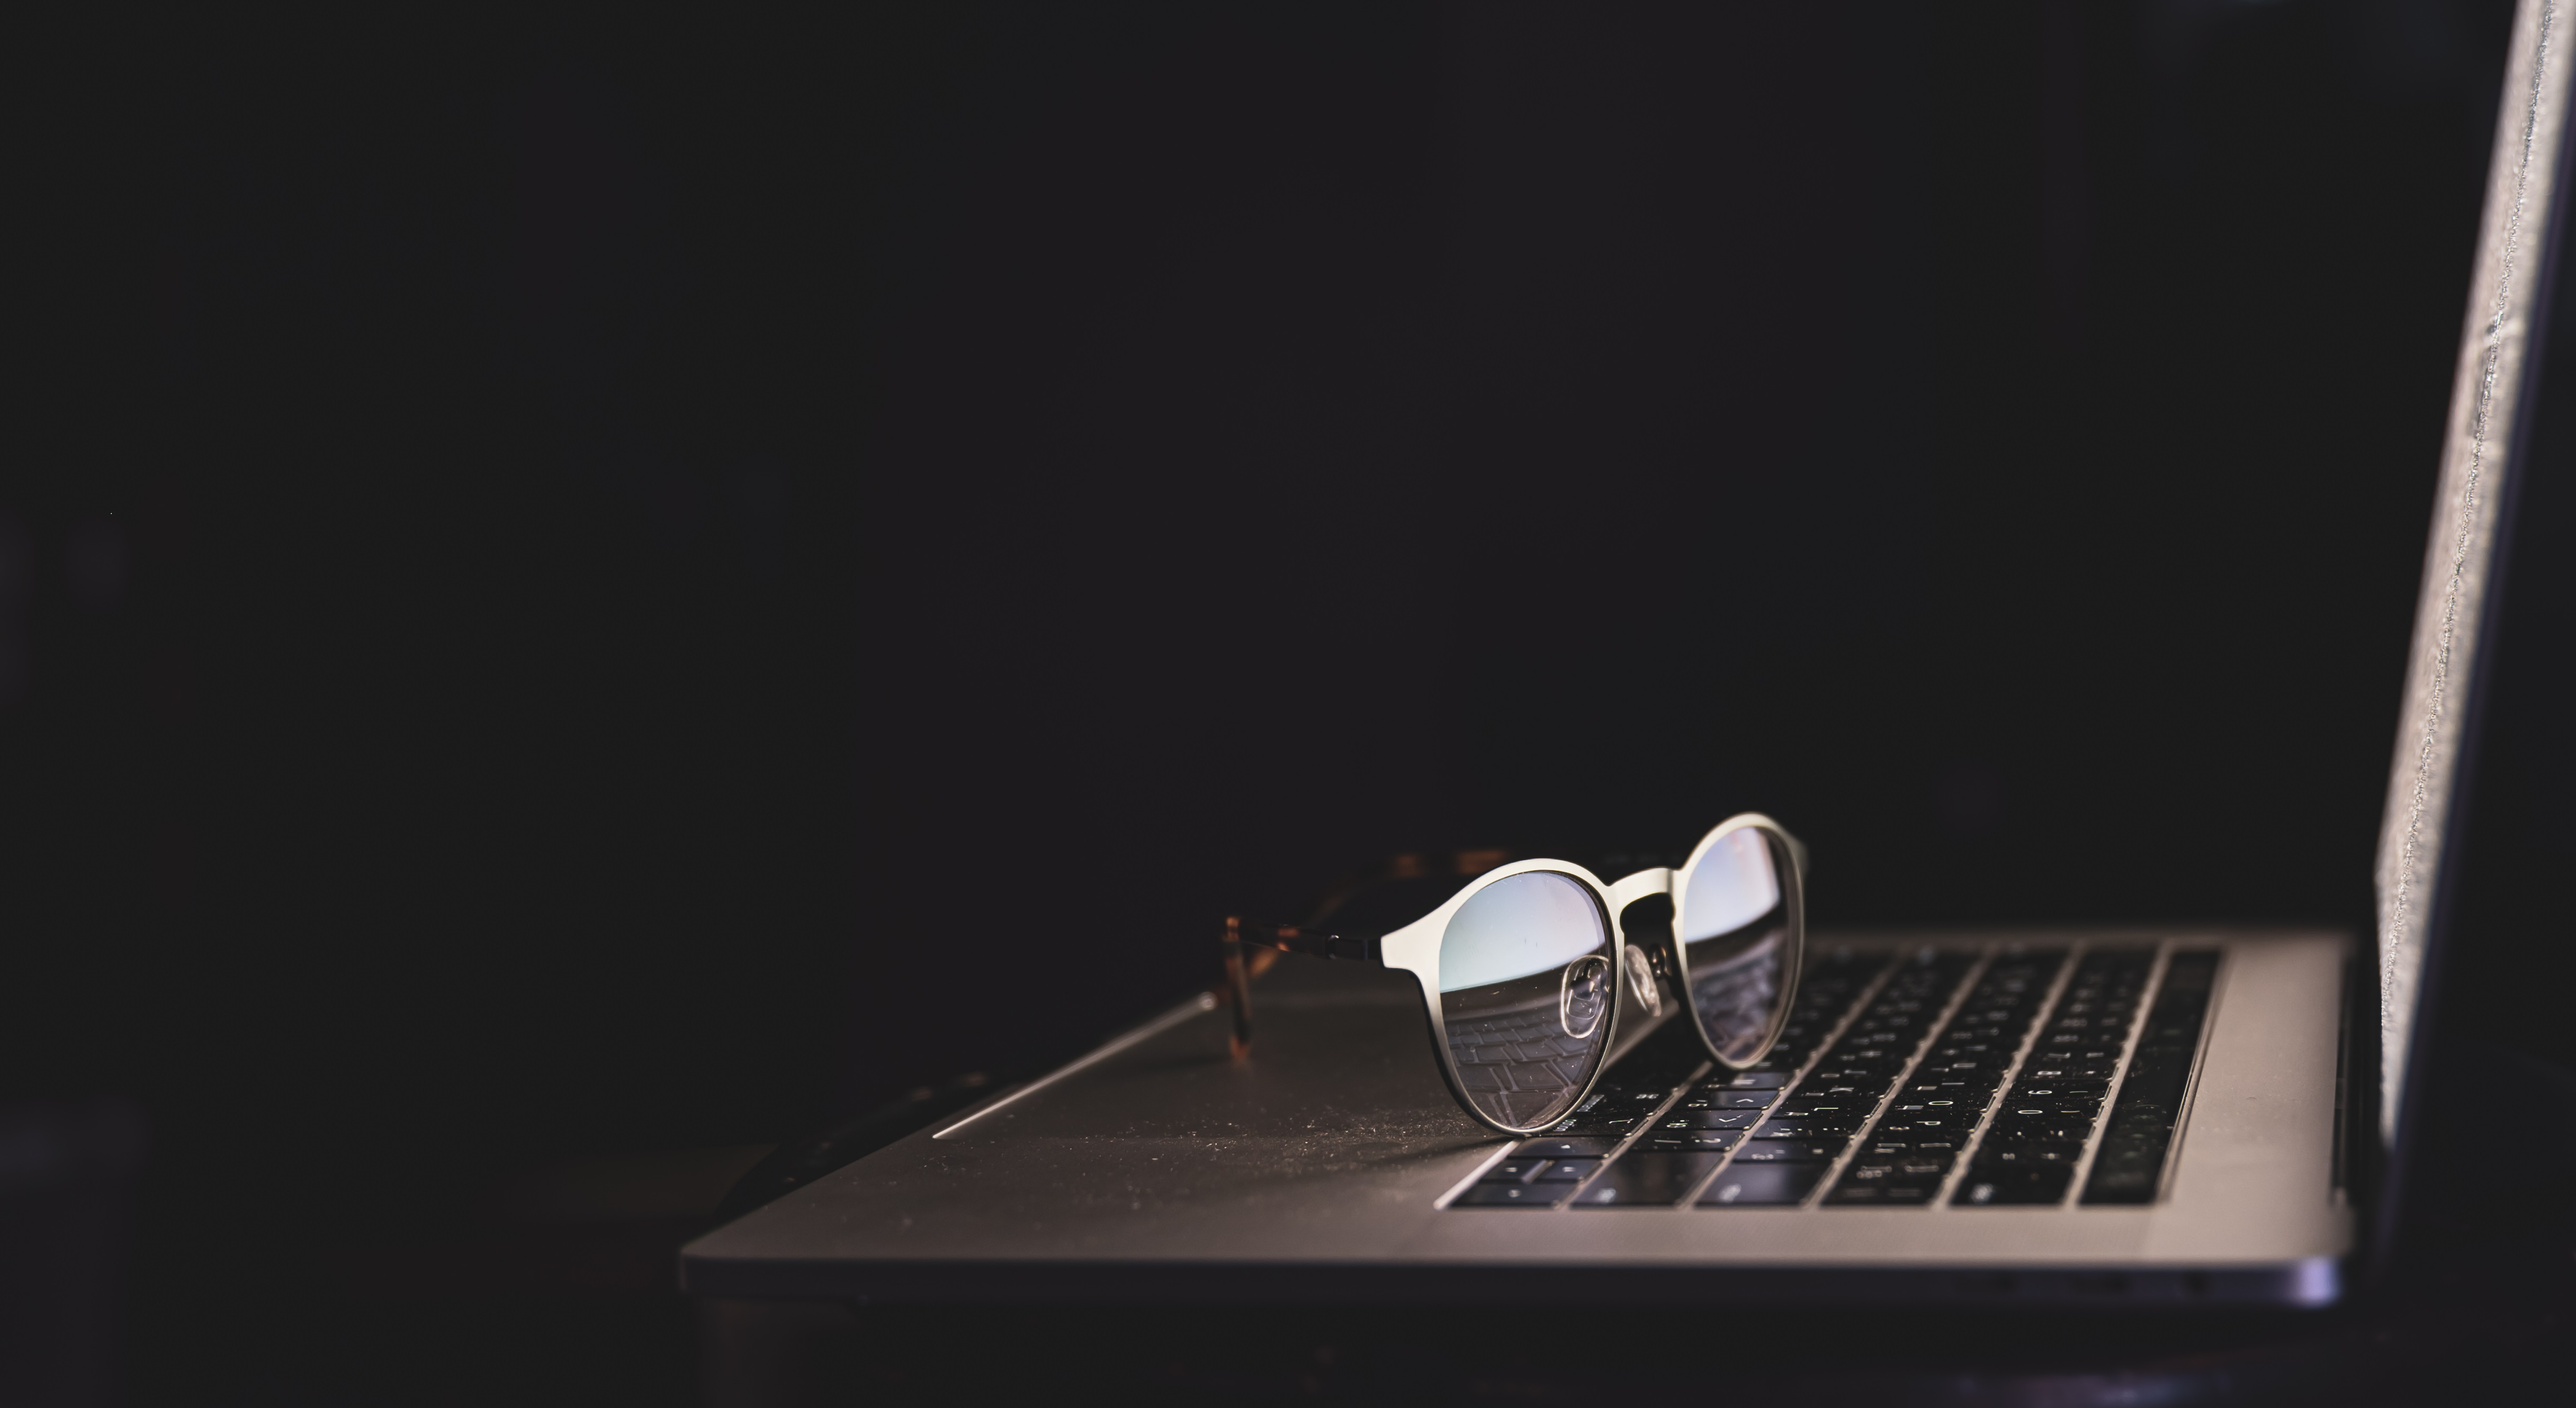
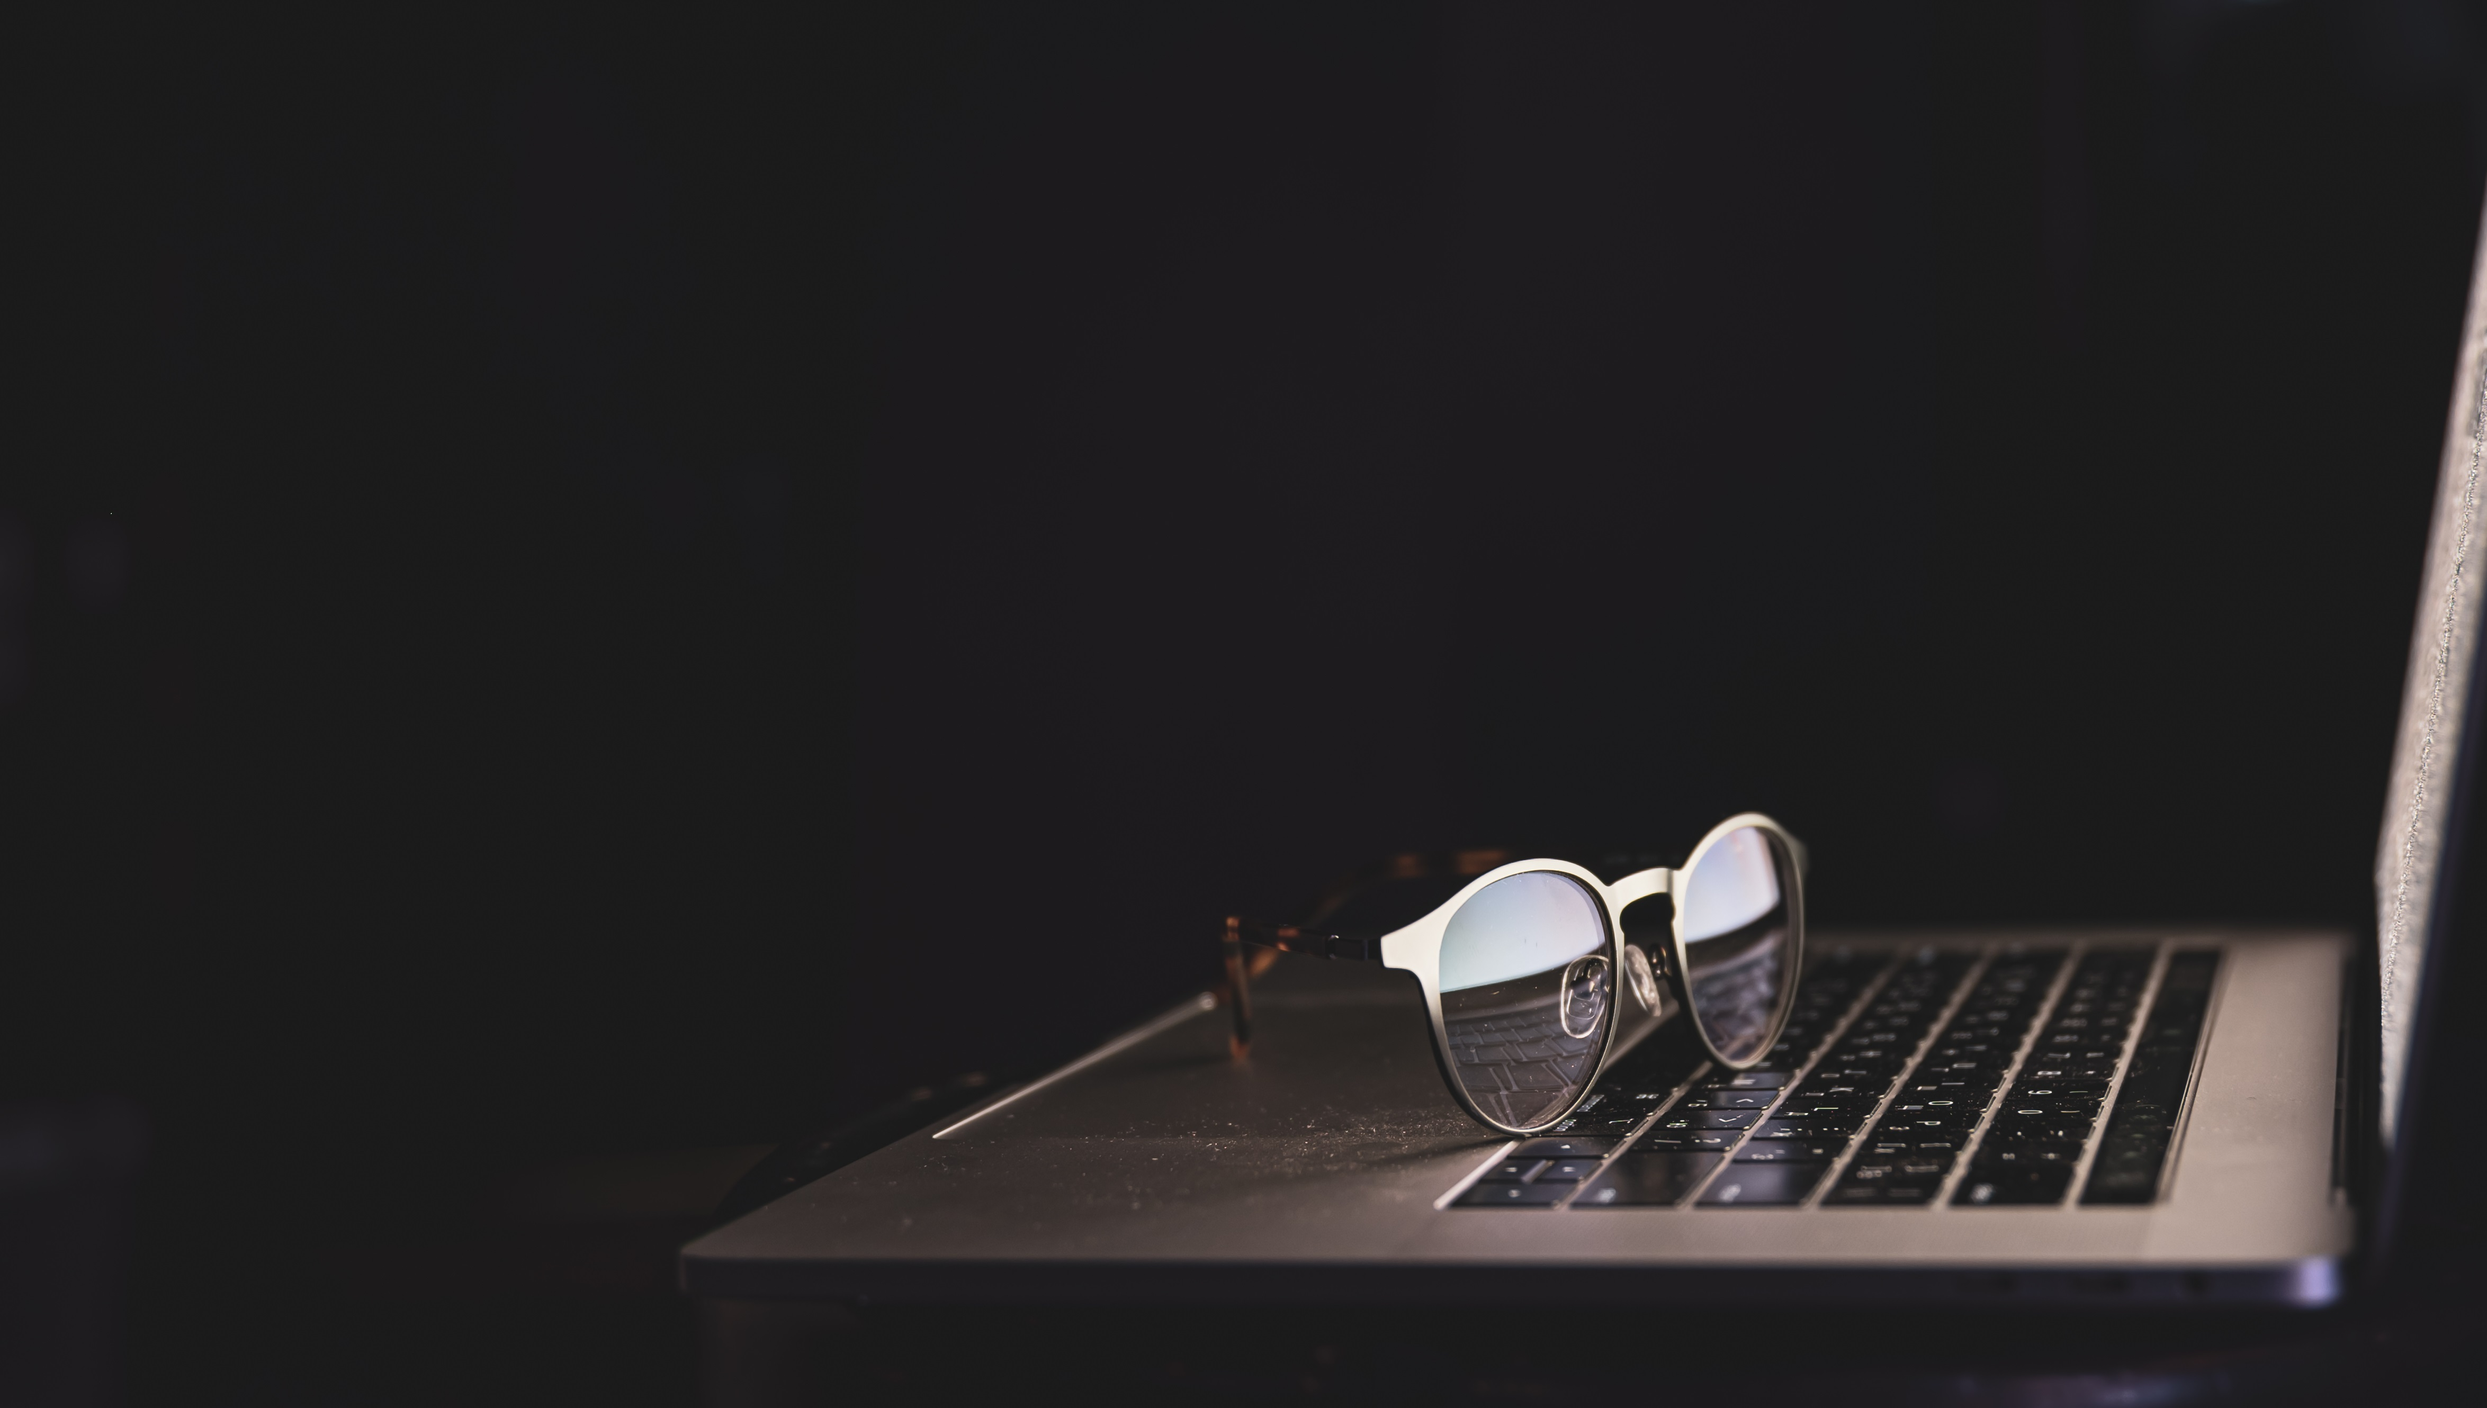
just few

diff --git a/index.html b/index.html
@@ -116,35 +116,11 @@
 
       <div class="row">
 
-        <div class="col-lg-3 col-md-6">
-          <div class="count-box">
-            <i class="bi bi-emoji-smile"></i>
-            <span data-purecounter-start="0" data-purecounter-end="232" data-purecounter-duration="1" class="purecounter"></span>
-            <p>Happy Clients</p>
-          </div>
-        </div>
-
         <div class="col-lg-3 col-md-6 mt-5 mt-md-0">
           <div class="count-box">
             <i class="bi bi-journal-richtext"></i>
-            <span data-purecounter-start="0" data-purecounter-end="521" data-purecounter-duration="1" class="purecounter"></span>
+            <span data-purecounter-start="0" data-purecounter-end="10" data-purecounter-duration="1" class="purecounter"></span>
             <p>Projects</p>
-          </div>
-        </div>
-
-        <div class="col-lg-3 col-md-6 mt-5 mt-lg-0">
-          <div class="count-box">
-            <i class="bi bi-headset"></i>
-            <span data-purecounter-start="0" data-purecounter-end="1463" data-purecounter-duration="1" class="purecounter"></span>
-            <p>Hours Of Support</p>
-          </div>
-        </div>
-
-        <div class="col-lg-3 col-md-6 mt-5 mt-lg-0">
-          <div class="count-box">
-            <i class="bi bi-award"></i>
-            <span data-purecounter-start="0" data-purecounter-end="24" data-purecounter-duration="1" class="purecounter"></span>
-            <p>Awards</p>
           </div>
         </div>
 
@@ -196,7 +172,7 @@
           </div>
 
           <div class="progress">
-            <span class="skill">WordPress/CMS <i class="val">90%</i></span>
+            <span class="skill">WordPress/Shopify/CMS <i class="val">90%</i></span>
             <div class="progress-bar-wrap">
               <div class="progress-bar" role="progressbar" aria-valuenow="90" aria-valuemin="0" aria-valuemax="100"></div>
             </div>
@@ -572,17 +548,20 @@
           <div class="info-box">
             <i class="bx bx-envelope"></i>
             <h3>Email Me</h3>
-            <p>masambu18@gmail.com</p>
+            <p><a href="mailto:masambu18@gmail.com">masambu18@gmail.com</a></p>
+
           </div>
         </div>
         <div class="col-md-6 mt-4 d-flex align-items-stretch">
           <div class="info-box">
             <i class="bx bx-phone-call"></i>
             <h3>Call Me</h3>
-            <p>+254 718610332</p>
+            <p><a href="tel:+254718610332">+254 718 610 332</a></p>
           </div>
         </div>
       </div>
+
+      <!-- CONTACT FORM 
 
       <form action="forms/contact.php" method="post" role="form" class="php-email-form mt-4">
         <div class="row">
@@ -605,7 +584,8 @@
           <div class="sent-message">Your message has been sent. Thank you!</div>
         </div>
         <div class="text-center"><button type="submit">Send Message</button></div>
-      </form>
+      </form> 
+       -->
 
     </div>
   </section><!-- End Contact Section -->

diff --git a/assets/css/style.css b/assets/css/style.css
@@ -278,7 +278,7 @@ h6 {
   line-height: 0;
   transition: 0.5s;
   position: fixed;
-  left: 15px;
+  right: 15px;
   top: 15px;
 }
 
@@ -308,7 +308,7 @@ h6 {
 .navbar-mobile .mobile-nav-toggle {
   position: absolute;
   top: 15px;
-  left: 15px;
+  right: 15px;
 }
 
 .navbar-mobile ul {
